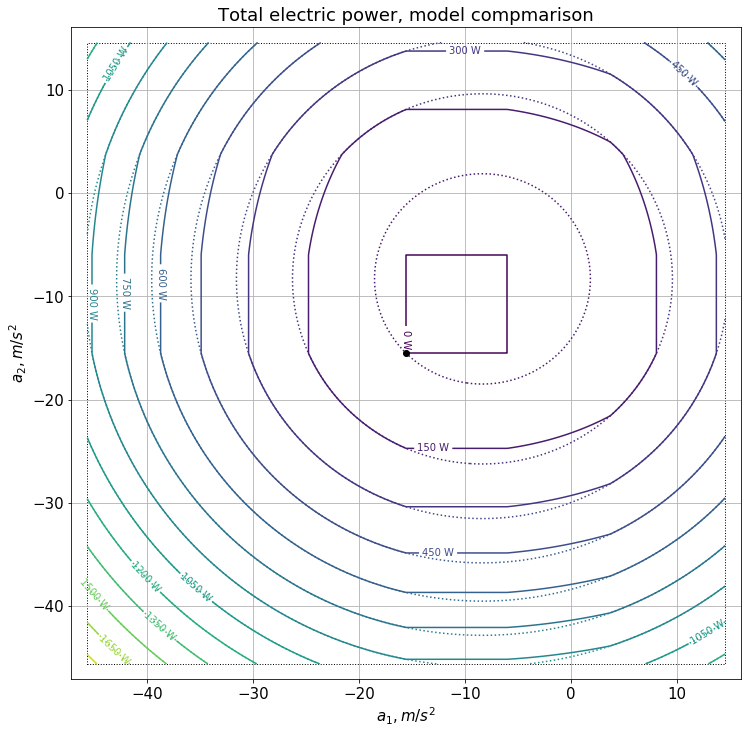
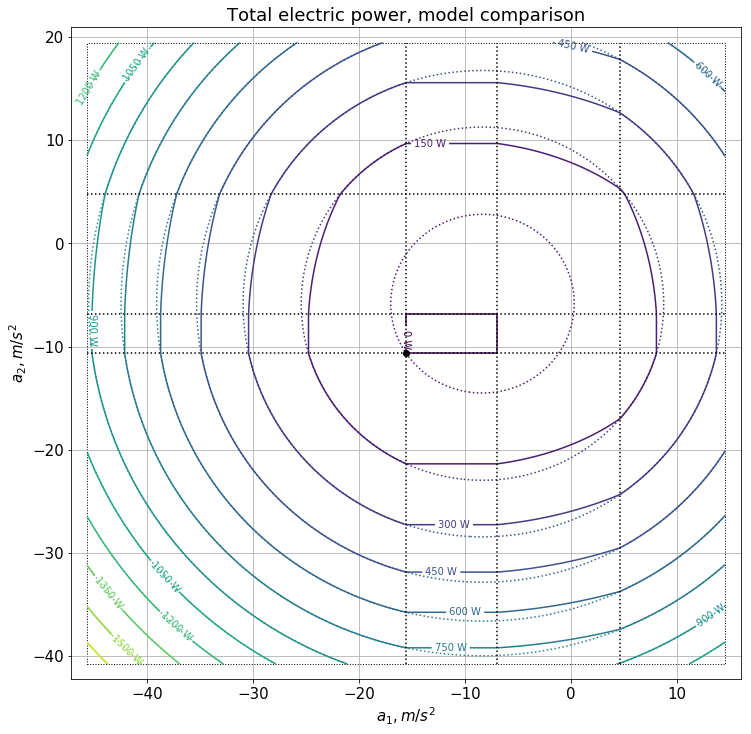
rotation makes sense now

diff --git a/Latex/Considerations_Omnibot_III_Accel_and_forces.tex b/Latex/Considerations_Omnibot_III_Accel_and_forces.tex
@@ -270,7 +270,7 @@ $$ P_{e,comp} = 1.881 \tau_{m}^{2} + 1.505 \tau_{m} \operatorname{sign}\left(\do
 We can see that both expressions are functions only of $\tau_{m}$ and $\dot{\phi}$, so it will be interesting to plot them in a 2d graph of both magnitudes as axes. In order to plot only valid values, we need to calculate the envelope of achievable values, that is, maximum and minimum torque at a certain  $\dot{\phi}$. We do so by substituting the value of $V$ by its maximum and minimum value. We are interested in behaviour obtainable in normal conditions, so we will limit our graph in $\dot{\phi}$ only up to the maximum speed that the motor can achieve by itself. Since the expression is symmetric, we can start our graph at zero speed.
 \begin{figure}[h]
 	\centering
-	\includegraphics[width=.5\linewidth]{motor_electric_power_w_and_wout_fricc}
+	\includegraphics[width=.9\linewidth]{motor_electric_power_w_and_wout_fricc}
 	\captionof{figure}{power as function of torque and speed}
 	\label{fig:power_f_tau_speed}
 \end{figure}
@@ -348,7 +348,7 @@ Let's start with a simple case where $w_2$ and $a_2$ are zero. In this case, onl
 
 \begin{figure}[h]
 	\centering
-	\includegraphics[width=.8\linewidth]{total_electric_power_w_and_wout_fricc}
+	\includegraphics[width=1\linewidth]{total_electric_power_w_and_wout_fricc}
 	\captionof{figure}{power as function of acceleration and speed}
 	\label{fig:power_f_a1_w1}
 \end{figure}
@@ -394,9 +394,86 @@ Again, we can observe that the envelope remains unchanged in size and centered i
 
 In the modified model, we can observe that the effect of degeneration into straight lines now applies for both axes: in the range of $a_1$ where power of motors 1 and 4 is zero, lines are horizontal, while in the range of $a_2$ where power of motors 2 and 3 is zero, lines are vertical. In the area in which both happen at the same time, we have a rectangle where power spent is zero.
 
+\subsection{Considering rotation}
+Let's consider a general situation in which apart from its speed in directions $w_1$ and $w_2$, the robot is rotating at a rate $\dot(psi)$. We have the three model expressions that link the electric power as function of $\vec{\Gamma}$ and $\dot\q_w$, but in order to get it as a function of $\dot{\q_r}$ and $\ddot{\q_r}$ we have to take on account additional terms:
+$$ \vec H\vec a+\vec K\vec w=\R^T\Gamma$$
+$$ \vec\Gamma = \R^{-T}(\vec H\vec a+\vec K\vec w)$$
+$$ \vec\Gamma = \frac{\sqrt{2}}{8 L_{2} r} \left[\begin{matrix}2 L_{2} \left(4 I_{w} w_{2} \dot{\psi} + a_{1} \left(4 I_{w} + m r^{2}\right)\right) - \left(8 I_{w} L_{2}^{2} + I_{z} r^{2}\right) \ddot{\psi}\\- 2 L_{2} \left(4 I_{w} w_{1} \dot{\psi} - a_{2} \left(4 I_{w} + m r^{2}\right)\right) + \left(8 I_{w} L_{2}^{2} + I_{z} r^{2}\right) \ddot{\psi}\\- 2 L_{2} \left(4 I_{w} w_{1} \dot{\psi} - a_{2} \left(4 I_{w} + m r^{2}\right)\right) - \left(8 I_{w} L_{2}^{2} + I_{z} r^{2}\right) \ddot{\psi}\\2 L_{2} \left(4 I_{w} w_{2} \dot{\psi} + a_{1} \left(4 I_{w} + m r^{2}\right)\right) + \left(8 I_{w} L_{2}^{2} + I_{z} r^{2}\right) \ddot{\psi}\end{matrix}\right]$$
+$$\vec\Gamma \approx \left[\begin{matrix}0.428 a_{1} + 0.056 w_{2} \dot{\psi} - 0.035 \ddot{\psi}\\0.428 a_{2} - 0.056 w_{1} \dot{\psi} + 0.035 \ddot{\psi}\\0.428 a_{2} - 0.056 w_{1} \dot{\psi} - 0.035 \ddot{\psi}\\0.428 a_{1} + 0.056 w_{2} \dot{\psi} + 0.035 \ddot{\psi}\end{matrix}\right] $$
+$$\dot{\q_w} = \frac{\sqrt{2}}{2}\left[\begin{matrix}- L_{2} \dot{\psi} + w_1\\L_{2} \dot{\psi} + w_2\\- L_{2} \dot{\psi} + w_2\\L_{2} \dot{\psi} + w_1\end{matrix}\right] \approx \left[\begin{matrix}21.2 w_{1} - 6.28 \dot{\psi}\\21.2 w_{2} + 6.28 \dot{\psi}\\21.2 w_{2} - 6.28 \dot{\psi}\\21.2 w_{1} + 6.28 \dot{\psi}\end{matrix}\right]$$
+
+Connecting these expressions through the three different motor models allows us to express the total electric power as a function of the robot speeds and accelerations. Only in the case of the simple model is the resulting expression clear enough to be useful: 
+$$ P_{e, simp} \approx 0.25 a_{1}^{2} + 16.95 a_{1} w_{1} + 0.07 a_{1} w_{2} \dot{\psi} + 0.25 a_{2}^{2} - 0.07 a_{2} w_{1} \dot{\psi} + 16.95 a_{2} w_{2} + 0.82 \dot{\psi} \ddot{\psi} $$
+
+\subsubsection{Acceleration enelope}
+Let's consiger again the general equation and express acceleration as a function of torques:
+$$ \vec H\vec a+\vec K\vec w=\R^T\Gamma$$
+$$ \vec a = \vec H^{-1}(\R^T\vec\Gamma - \vec K \vec w) \approx \left[\begin{matrix}\frac{- 4 I_{w} w_{2} \dot{\psi} + \sqrt{2} r \left(\tau_{1} + \tau_{4}\right)}{4 I_{w} + m r^{2}}\\\frac{4 I_{w} w_{1} \dot{\psi} + \sqrt{2} r \left(\tau_{2} + \tau_{3}\right)}{4 I_{w} + m r^{2}}\\- \frac{\sqrt{2} L_{2} r \left(\tau_{1} - \tau_{2} + \tau_{3} - \tau_{4}\right)}{8 I_{w} L_{2}^{2} + I_{z} r^{2}}\end{matrix}\right]$$
+This expression gives us a very important clue: Maximum and minimum acceleration in direction $w_1$ will always correspond to maximum and minimum torque in motors 1 and 4, and the same can be said about direction $w_2$ and motors 2 and 3. That means that in order to find the acceleration envelope, we can safely substitute in this expression with the values of maximum and minimum voltages.
+
+For the simple model, we get:
+$$\vec a_{max, simp} \approx \left[\begin{matrix}- 68.379 w_{1} - 0.132 w_{2} \dot{\psi} + 50.178\\0.132 w_{1} \dot{\psi} - 68.379 w_{2} + 50.178\\- 247.361 \dot{\psi}\end{matrix}\right]$$
+$$\vec a_{min, simp} \approx \left[\begin{matrix}- 68.379 w_{1} - 0.132 w_{2} \dot{\psi} - 50.178\\0.132 w_{1} \dot{\psi} - 68.379 w_{2} - 50.178\\- 247.361 \dot{\psi}\end{matrix}\right]$$
+$$\vec a_{0V, simp} \approx \left[\begin{matrix}- 68.379 w_{1} - 0.132 w_{2} \dot{\psi}\\0.132 w_{1} \dot{\psi} - 68.379 w_{2}\\- 247.361 \dot{\psi}\end{matrix}\right]$$
+
+We can observe that the difference between the maximum and minimum values remains a constant for any condition, and again te zero-voltage condition is the mean between the two. This means that the acceleration envelope will always be a square centered on the zero-voltage value.
+
+We observe also that the value of $\ddot \psi$ is the same for the three conditions, a negative constant times its current rotational speed. This doesn't mean that this is the only value it can have, but rather that focusing all the power in accelerating in the plane has the same braking effect on the spinning as putting the four motors at zero voltage. We will use this in our graphs, because it represents a constant value of $\ddot \psi$ that we know that we can achieve over the whole area of the envelope. We will consider the relationship between the envelope of accelerations and  $\ddot \psi$ in a later point.
+
+For the complete model, the same conclusions can be achieved, even though  the expressions are quite complicated. Interested readers can find them in Annex 1 
+\subsubsection{Influence of $\dot \psi$ on power}
+We can now plot different combinations of $\dot \psi$, $w_1$ and $w_2$ in order to observe the influence that spinning has on power, Both in the cas of moving at half speed in the direction of $w_1$ in figure \ref{fig:psidot_comp_w1}, and moving at half speed in both directions of $w_1$ and $w_2$ in figure \ref{fig:psidot_comp_w1_w2} : 
+
+In order to be sure that the conditions that we plot are feasible for the robot by its own means, we have to make sure that:
+$$|\frac{\dot \psi}{\dot \psi_{max}}| + |\frac{w_1}{w_{1,max}}| \leq 1 $$
+$$|\frac{\dot \psi}{\dot \psi_{max}}| + |\frac{w_2}{w_{2,max}}| \leq 1 $$
+
+\begin{figure}[h]
+	\centering
+	\includegraphics[width=1\linewidth]{psidot_comp_w1}
+	\captionof{figure}{power as function of acceleration, moving in $w_1$}
+	\label{fig:psidot_comp_w1}
+\end{figure}
+\begin{figure}[h]
+	\centering
+	\includegraphics[width=1\linewidth]{psidot_comp_w1_w2}
+	\captionof{figure}{power as function of acceleration, moving in $w_1$ and $w_2$}
+	\label{fig:psidot_comp_w1_w2}
+\end{figure}
+
+In both conditions, we can see that the power requisites are not very different for the simple and complete motor models. If we plot the difference in power between the rotation and non-rotation conditions, we can observe that the difference in power is usually between one and three orders of magnitude smaller than the total power. This is shown for movement in direction of $w_1$ in figure \ref{fig:psidot_comp_w1_diff} and for movement in both directions in figure \ref{fig:psidot_comp_w1_w2_diff}.
+\begin{figure}[h]
+	\centering
+	\includegraphics[width=1\linewidth]{psidot_comp_w1_diff}
+	\captionof{figure}{Difference in power as function of acceleration, moving in $w_1$}
+	\label{fig:psidot_comp_w1_diff}
+\end{figure}
+\begin{figure}[h]
+	\centering
+	\includegraphics[width=1\linewidth]{psidot_comp_w1_w2_diff}
+	\captionof{figure}{Difference in power as function of acceleration, moving in $w_1$ and $w_2$}
+	\label{fig:psidot_comp_w1_w2_diff}
+\end{figure}
+
+We can also observe that the modified model gives us shapes that at first glance seem irregular and strange. However, when we plot it in detail, and compare it with the values of the acceleration at which different motors enter the zero-power area, the shape becomes understandable. In figure \ref{fig:comparacion_modelos}, we use a condition where $w_1$ is half the maximum speed and $w_2$, a third. The horizontal lines are the values of $a_2$ at which motors 2 and 3 enter their zero-power area, and vertical lines are the same for motors 1 and 4. Looking closely, we can see that the estrange shapes are a combination of circles, were all motors work normally, ellipses, where only one motor is in the zero-power area, and straight lines, where two motors are there. The outlines of the equivalent conditions for the complete model are shown also as dotted lines in order to help visualization of their differences.
+
+\begin{figure}[h]
+	\centering
+	\includegraphics[width=1\linewidth]{comparacion_modelos}
+	\captionof{figure}{Power as function of acceleration, showing the difference between complete and modified models, moving in $w_1$ and $w_2$}
+	\label{fig:comparacion_modelos}
+\end{figure}
+
 \section*{Conclusions}
 
 Las conclusiones están por concluir. Cuando concluyamos, las conclusiones serán concluidas y dejarán de estar inconclusas.
+\section{Annex 1: complicated expressions}
+
+Maximum, minimum and zero-voltage accelerations for complete model:
+\tiny
+$$\left[\begin{matrix}- 41.523 w_{1} - 0.132 w_{2} \dot{\psi} - 0.467 \operatorname{sign}\left(21.203 w_{1} - 6.285 \dot{\psi}\right) - 0.467 \operatorname{sign}\left(21.203 w_{1} + 6.285 \dot{\psi}\right) + 30.107\\0.132 w_{1} \dot{\psi} - 41.523 w_{2} - 0.467 \operatorname{sign}\left(21.203 w_{2} - 6.285 \dot{\psi}\right) - 0.467 \operatorname{sign}\left(21.203 w_{2} + 6.285 \dot{\psi}\right) + 30.107\\2.853 \operatorname{sign}\left(21.203 w_{1} - 6.285 \dot{\psi}\right) - 2.853 \operatorname{sign}\left(21.203 w_{1} + 6.285 \dot{\psi}\right) + 2.853 \operatorname{sign}\left(21.203 w_{2} - 6.285 \dot{\psi}\right) - 2.853 \operatorname{sign}\left(21.203 w_{2} + 6.285 \dot{\psi}\right) - 150.209 \dot{\psi}\end{matrix}\right]$$
+$$ \left[\begin{matrix}- 41.523 w_{1} - 0.132 w_{2} \dot{\psi} - 0.467 \operatorname{sign}\left(21.203 w_{1} - 6.285 \dot{\psi}\right) - 0.467 \operatorname{sign}\left(21.203 w_{1} + 6.285 \dot{\psi}\right) - 30.107\\0.132 w_{1} \dot{\psi} - 41.523 w_{2} - 0.467 \operatorname{sign}\left(21.203 w_{2} - 6.285 \dot{\psi}\right) - 0.467 \operatorname{sign}\left(21.203 w_{2} + 6.285 \dot{\psi}\right) - 30.107\\2.853 \operatorname{sign}\left(21.203 w_{1} - 6.285 \dot{\psi}\right) - 2.853 \operatorname{sign}\left(21.203 w_{1} + 6.285 \dot{\psi}\right) + 2.853 \operatorname{sign}\left(21.203 w_{2} - 6.285 \dot{\psi}\right) - 2.853 \operatorname{sign}\left(21.203 w_{2} + 6.285 \dot{\psi}\right) - 150.209 \dot{\psi}\end{matrix}\right]$$
+$$\left[\begin{matrix}- 41.523 w_{1} - 0.132 w_{2} \dot{\psi} - 0.467 \operatorname{sign}\left(21.203 w_{1} - 6.285 \dot{\psi}\right) - 0.467 \operatorname{sign}\left(21.203 w_{1} + 6.285 \dot{\psi}\right)\\0.132 w_{1} \dot{\psi} - 41.523 w_{2} - 0.467 \operatorname{sign}\left(21.203 w_{2} - 6.285 \dot{\psi}\right) - 0.467 \operatorname{sign}\left(21.203 w_{2} + 6.285 \dot{\psi}\right)\\2.853 \operatorname{sign}\left(21.203 w_{1} - 6.285 \dot{\psi}\right) - 2.853 \operatorname{sign}\left(21.203 w_{1} + 6.285 \dot{\psi}\right) + 2.853 \operatorname{sign}\left(21.203 w_{2} - 6.285 \dot{\psi}\right) - 2.853 \operatorname{sign}\left(21.203 w_{2} + 6.285 \dot{\psi}\right) - 150.209 \dot{\psi}\end{matrix}\right]$$
 % Your references go at the end of the main text, and before the
 % figures.  For this document we've used BibTeX, the .bib file
 % scibib.bib, and the .bst file Science.bst.  The package scicite.sty
